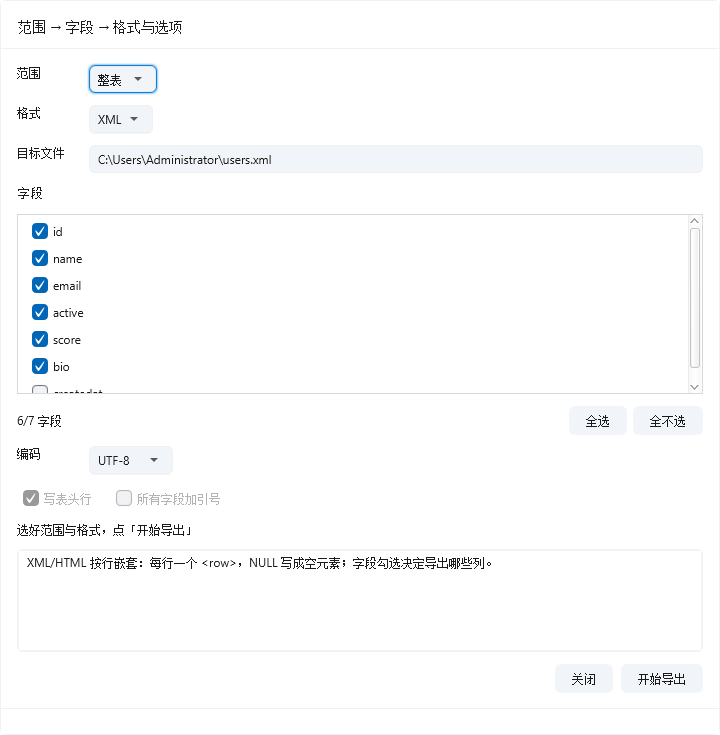
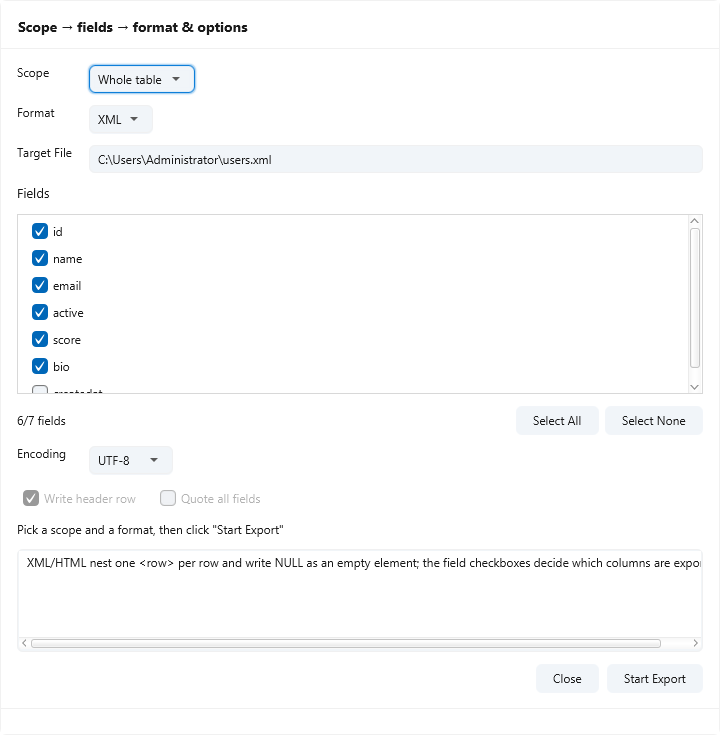
feat(ui): R34 N1-b 第十七批 —— 导出向导抽干净（37 → 0），棘轮 361 达成
- ExportWizard 37 条 CJK 字面量全部入资源包（新增 26 键 export.*，复用 5 键双侧全等：
  tab.close / menu.format / action.table-list.select-all / newtable.tab.fields /
  import.field.encoding）；资源包 1178 → 1204 键
- ⭐ Scope 枚举改「存键、渲染时解析」（第九批 SslMode 同规）：
  CURRENT_PAGE/SELECTED/WHOLE_TABLE 各存 export.scope.* 键，toString() 走 I18n ——
  下拉与「已导出 … （Whole table · XML …）」摘要同一条路，无第二份文案
- export.done 拆成「首句 + 明细」两键（export.done / export.done.detail），
  让测试能钉首段而不必复算六个实参
- TransferWizardTest 4 处重钉（export.done 200 / export.cancelled / pickTarget / pickField）；
  I18nAuditTest 棘轮 398 → 361
- 验收：全量 150 组 / 1180 条 / 0 失败 / 0 错误 / 134 类持平；p8-export 重拍目视全英
  （Scope=Whole table 证枚举渲染生效、6/7 fields、XML 下 Write header row /
  Quote all fields 正确置灰 —— R33 那条「勾了不生效的谎」未回退）

push 仍未授权。

diff --git a/ui/adb-ui-shell/src/main/java/io/agenticdb/ui/shell/ExportWizard.java b/ui/adb-ui-shell/src/main/java/io/agenticdb/ui/shell/ExportWizard.java
@@ -5,6 +5,7 @@ import io.agenticdb.introspect.DataSqlBuilder;
 import io.agenticdb.jdbc.DbSession;
 import io.agenticdb.model.QueryLimits;
 import io.agenticdb.model.RowPage;
+import io.agenticdb.ui.I18n;
 import io.agenticdb.transfer.ExportFormat;
 import io.agenticdb.transfer.ExportOptions;
 import io.agenticdb.transfer.TableExporter;
@@ -56,21 +57,21 @@ import java.util.function.Consumer;
  */
 final class ExportWizard {
 
-    /** 导出范围。 */
+    /** 导出范围。⭐ 存键、渲染时解析（第九批 SslMode 同规）—— 枚举值本身不进文案。 */
     enum Scope {
-        CURRENT_PAGE("当前页"),
-        SELECTED("选中行"),
-        WHOLE_TABLE("整表");
+        CURRENT_PAGE("export.scope.page"),
+        SELECTED("export.scope.selected"),
+        WHOLE_TABLE("export.scope.whole");
 
-        private final String label;
+        private final String labelKey;
 
-        Scope(String label) {
-            this.label = label;
+        Scope(String labelKey) {
+            this.labelKey = labelKey;
         }
 
         @Override
         public String toString() {
-            return label;
+            return I18n.t(labelKey);
         }
     }
 
@@ -125,16 +126,16 @@ final class ExportWizard {
     private final ComboBox<Scope> scopeBox = new ComboBox<>();
     private final ComboBox<ExportFormat> formatBox = new ComboBox<>();
     private final ComboBox<Charset> charsetBox = new ComboBox<>();
-    private final CheckBox headerBox = new CheckBox("写表头行");
-    private final CheckBox quoteBox = new CheckBox("所有字段加引号");
+    private final CheckBox headerBox = new CheckBox(I18n.t("export.header.check"));
+    private final CheckBox quoteBox = new CheckBox(I18n.t("export.quote.check"));
     private final VBox columnBox = new VBox(3);
     private final List<CheckBox> columnChecks = new ArrayList<>();
     private final TextField targetField = new TextField();
     private final TextArea log = new TextArea();
     private final ProgressIndicator spinner = new ProgressIndicator();
     private final Label summary = new Label();
-    private final Button exportButton = new Button("开始导出");
-    private final Button closeButton = new Button("关闭");
+    private final Button exportButton = new Button(I18n.t("export.start"));
+    private final Button closeButton = new Button(I18n.t("tab.close"));
 
     private final RowCounter counter;
     private final Confirmation confirmation;
@@ -217,11 +218,11 @@ final class ExportWizard {
         columnScroll.setPrefHeight(Math.min(Math.max(this.columns.size(), 4), 7) * 24 + 12);
         columnScroll.setHbarPolicy(ScrollPane.ScrollBarPolicy.NEVER);
 
-        Button allColumns = new Button("全选");
+        Button allColumns = new Button(I18n.t("action.table-list.select-all"));
         allColumns.setId("export-columns-all");
         allColumns.getStyleClass().addAll("adb-button", "adb-button--ghost");
         allColumns.setOnAction(event -> selectAllColumns(true));
-        Button noColumns = new Button("全不选");
+        Button noColumns = new Button(I18n.t("export.columns.none"));
         noColumns.setId("export-columns-none");
         noColumns.getStyleClass().addAll("adb-button", "adb-button--ghost");
         noColumns.setOnAction(event -> selectAllColumns(false));
@@ -238,7 +239,7 @@ final class ExportWizard {
 
         targetField.setId("export-target");
         targetField.setText(defaultTarget == null ? "" : defaultTarget.toString());
-        targetField.setPromptText("导出到的文件");
+        targetField.setPromptText(I18n.t("export.target.prompt"));
 
         log.setId("export-log");
         log.setEditable(false);
@@ -249,7 +250,7 @@ final class ExportWizard {
         spinner.setVisible(false);
 
         summary.setId("export-summary");
-        summary.setText("选好范围与格式，点「开始导出」");
+        summary.setText(I18n.t("export.summary.initial"));
         summary.getStyleClass().add("adb-muted");
 
         exportButton.setId("export-start");
@@ -274,13 +275,13 @@ final class ExportWizard {
         optionRow.setAlignment(Pos.CENTER_LEFT);
 
         content.getChildren().addAll(
-                field("范围", scopeBox),
-                field("格式", formatBox),
-                field("目标文件", targetField),
-                new Label("字段"),
+                field(I18n.t("export.field.scope"), scopeBox),
+                field(I18n.t("menu.format"), formatBox),
+                field(I18n.t("export.field.target"), targetField),
+                new Label(I18n.t("newtable.tab.fields")),
                 columnScroll,
                 fieldActions,
-                field("编码", charsetBox),
+                field(I18n.t("import.field.encoding"), charsetBox),
                 optionRow,
                 summary,
                 log,
@@ -288,7 +289,7 @@ final class ExportWizard {
         content.setPadding(new Insets(16));
         content.getStyleClass().add("adb-wizard__content");
 
-        dialog.setTitle("导出 " + tableName);
+        dialog.setTitle(I18n.t("export.title", tableName));
 
         // ⭐ V-11：弹窗宽度走档位规范（DialogSizes）。
 
@@ -296,7 +297,7 @@ final class ExportWizard {
 
         dialog.getDialogPane().setMinWidth(DialogSizes.WIDE);
 
-        dialog.setHeaderText("范围 → 字段 → 格式与选项");
+        dialog.setHeaderText(I18n.t("export.steps"));
         // ⛔ 不放任何按钮到按钮栏 —— 放了会被 setResultAndClose 一键关掉。
         dialog.getDialogPane().getButtonTypes().clear();
         dialog.getDialogPane().setContent(content);
@@ -339,8 +340,7 @@ final class ExportWizard {
             scopeBox.getSelectionModel().select(Scope.WHOLE_TABLE);
         }
         targetField.setText(withExtension(targetField.getText(), formatBox.getValue()));
-        log.setText("XML/HTML 按行嵌套：每行一个 <row>，NULL 写成空元素；"
-                + "字段勾选决定导出哪些列。");
+        log.setText(I18n.t("export.pose.log"));
     }
 
     /** 供门禁直接驱动。 */
@@ -378,8 +378,7 @@ final class ExportWizard {
     }
 
     private String fieldCountText() {
-        int checked = selectedColumns().size();
-        return checked + "/" + columnChecks.size() + " 字段";
+        return I18n.t("export.field.count", selectedColumns().size(), columnChecks.size());
     }
 
     /** 勾选的字段（保持表结构顺序）。 */
@@ -400,12 +399,12 @@ final class ExportWizard {
         }
         String text = targetField.getText() == null ? "" : targetField.getText().trim();
         if (text.isBlank()) {
-            summary.setText("请先选一个目标文件");
+            summary.setText(I18n.t("export.summary.pickTarget"));
             return;
         }
         List<String> selected = selectedColumns();
         if (selected.isEmpty()) {
-            summary.setText("请至少勾选一个字段");
+            summary.setText(I18n.t("export.summary.pickField"));
             return;
         }
         Path target = Path.of(text);
@@ -415,7 +414,7 @@ final class ExportWizard {
         running = true;
         exportButton.setDisable(true);
         spinner.setVisible(true);
-        summary.setText("正在统计 " + tableName + " 的行数 …");
+        summary.setText(I18n.t("export.counting", tableName));
 
         ExportOptions options = new ExportOptions(format, headerBox.isSelected(), 500, 0,
                 quoteBox.isSelected(), charsetBox.getValue());
@@ -434,21 +433,21 @@ final class ExportWizard {
                 rows = -1;
             }
             if (rows > 0 && QueryLimits.exportRequiresConfirmation(rows)) {
-                String message = "将读取 " + NumberFormat.getInstance().format(rows) + " 行"
-                        + "（超过 " + NumberFormat.getInstance().format(QueryLimits.MAX_EXPORT_ROWS)
-                        + " 行的确认阈值）。确定继续吗？";
+                String message = I18n.t("export.confirm",
+                        NumberFormat.getInstance().format(rows),
+                        NumberFormat.getInstance().format(QueryLimits.MAX_EXPORT_ROWS));
                 Platform.runLater(() -> {
                     if (confirmation.confirm(message)) {
                         runExport(target, options, scope, selected, snapshot);
                     } else {
-                        finish("已取消导出：" + message);
+                        finish(I18n.t("export.cancelled", message));
                     }
                 });
                 return;
             }
             if (rows < 0) {
                 Platform.runLater(() ->
-                        summary.setText("无法统计行数，仍继续导出 " + tableName + " …"));
+                        summary.setText(I18n.t("export.countUnknown", tableName)));
             }
             runExport(target, options, scope, selected, snapshot);
         });
@@ -460,12 +459,12 @@ final class ExportWizard {
             String message;
             try {
                 long rows = run(target, options, scope, selected, snapshot);
-                message = "已导出 " + rows + " 行 → " + target
-                        + "（" + scope + " · " + options.format().label()
-                        + " · " + selected.size() + " 字段"
-                        + " · " + options.charset().name() + "）";
+                message = I18n.t("export.done", rows) + I18n.t("export.done.detail",
+                        target, scope, options.format().label(), selected.size(),
+                        options.charset().name());
             } catch (Exception e) {
-                message = "导出失败：" + (e.getMessage() == null ? e.toString() : e.getMessage());
+                message = I18n.t("export.failed",
+                        e.getMessage() == null ? e.toString() : e.getMessage());
             }
             String finalMessage = message;
             Platform.runLater(() -> finish(finalMessage));
@@ -512,8 +511,8 @@ final class ExportWizard {
     private boolean askUser(String message) {
         Alert alert = new Alert(Alert.AlertType.CONFIRMATION, message,
                 ButtonType.OK, ButtonType.CANCEL);
-        alert.setTitle("导出确认");
-        alert.setHeaderText("这张表很大");
+        alert.setTitle(I18n.t("export.confirm.title"));
+        alert.setHeaderText(I18n.t("export.confirm.header"));
         DialogStyles.apply(alert, owner);
         return alert.showAndWait().filter(button -> button == ButtonType.OK).isPresent();
     }

diff --git a/ui/adb-ui-shell/src/test/java/io/agenticdb/ui/shell/TransferWizardTest.java b/ui/adb-ui-shell/src/test/java/io/agenticdb/ui/shell/TransferWizardTest.java
@@ -80,7 +80,7 @@ class TransferWizardTest {
             assertThat(csv).contains("User 001");
 
             Label summary = onFx(() -> (Label) wizard.content().lookup("#export-summary"));
-            assertThat(summary.getText()).contains("已导出");
+            assertThat(summary.getText()).contains(I18n.t("export.done", 200));
         } finally {
             executor.shutdownNow();
             session.close();
@@ -110,7 +110,7 @@ class TransferWizardTest {
                 clickButton(wizard, "export-start");
             });
 
-            assertThat(waitForSummary(wizard, "已取消", 5000))
+            assertThat(waitForSummary(wizard, I18n.t("export.cancelled", ""), 5000))
                     .as("超过阈值必须先问，用户取消就不该写文件").isTrue();
             assertThat(asked.get())
                     .as("提示里必须写出真实行数，不能只问一个抽象的「确定吗」")
@@ -223,7 +223,7 @@ class TransferWizardTest {
                 clickButton(wizard, "export-start");
             });
             Label summary = onFx(() -> (Label) wizard.content().lookup("#export-summary"));
-            assertThat(summary.getText()).contains("目标文件");
+            assertThat(summary.getText()).contains(I18n.t("export.summary.pickTarget"));
         } finally {
             executor.shutdownNow();
             session.close();
@@ -461,7 +461,7 @@ class TransferWizardTest {
             });
 
             Label summary = onFx(() -> (Label) wizard.content().lookup("#export-summary"));
-            assertThat(summary.getText()).contains("至少勾选一个字段");
+            assertThat(summary.getText()).contains(I18n.t("export.summary.pickField"));
             assertThat(Files.exists(target)).isFalse();
         } finally {
             executor.shutdownNow();

diff --git a/ui/adb-ui-shell/src/test/java/io/agenticdb/ui/shell/I18nAuditTest.java b/ui/adb-ui-shell/src/test/java/io/agenticdb/ui/shell/I18nAuditTest.java
@@ -73,7 +73,7 @@ class I18nAuditTest {
      * 而本类是先 {@code stripComments} 再计数。口径不同的两个数放在一起，
      * 只会让人以为棘轮又涨了。
      */
-    private static final int CJK_CEILING = 398;
+    private static final int CJK_CEILING = 361;
 
     /**
      * ⭐ R34 N1-b 第七批补的第三把尺：<b>模型层</b>（core / workbench）的汉字字面量。
